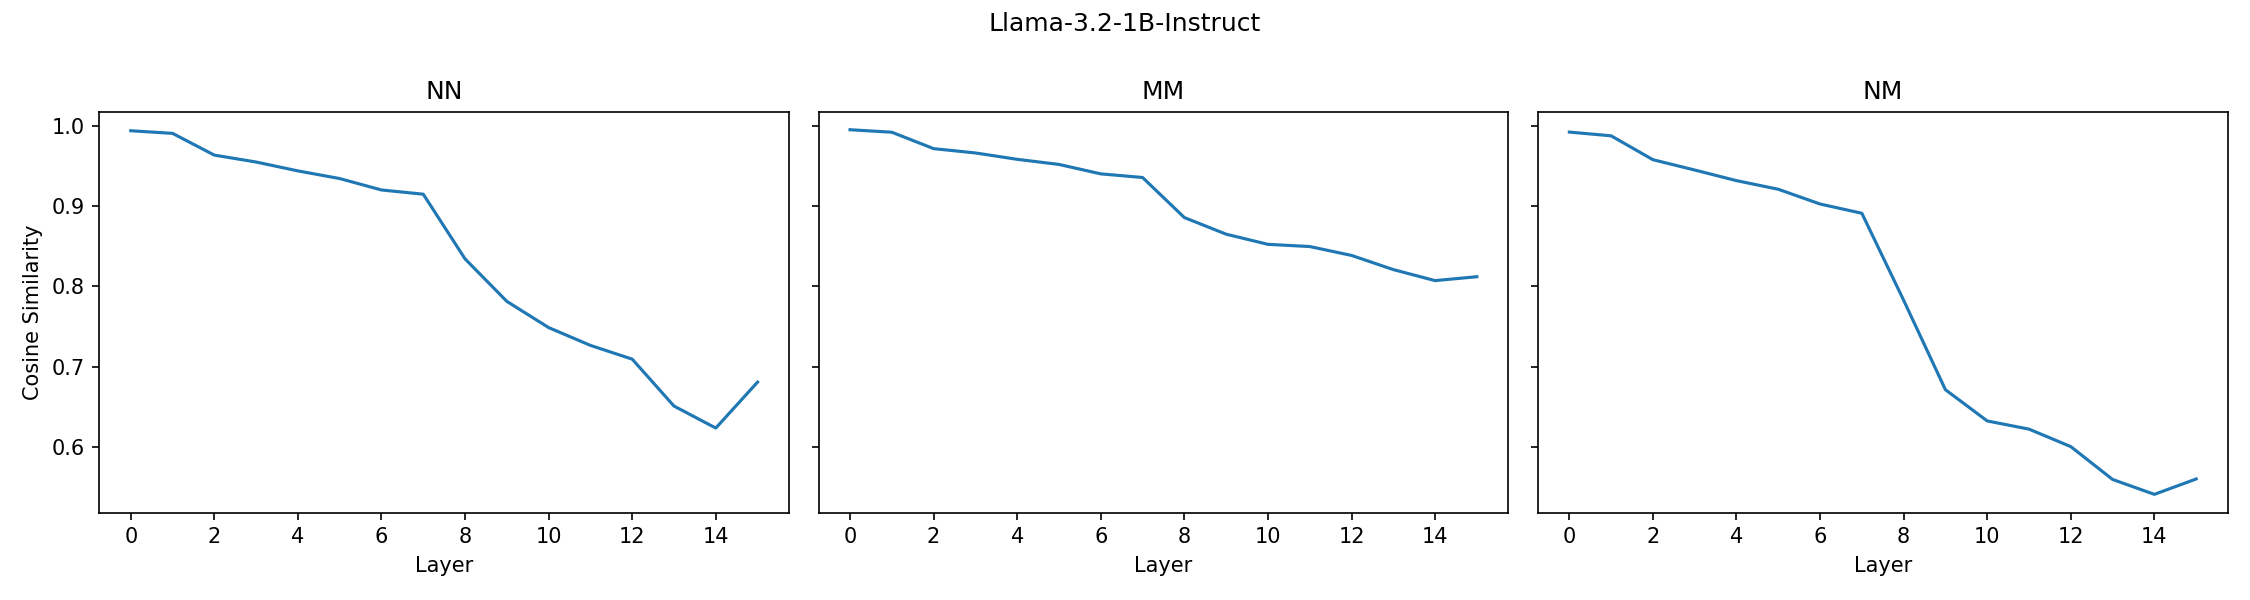
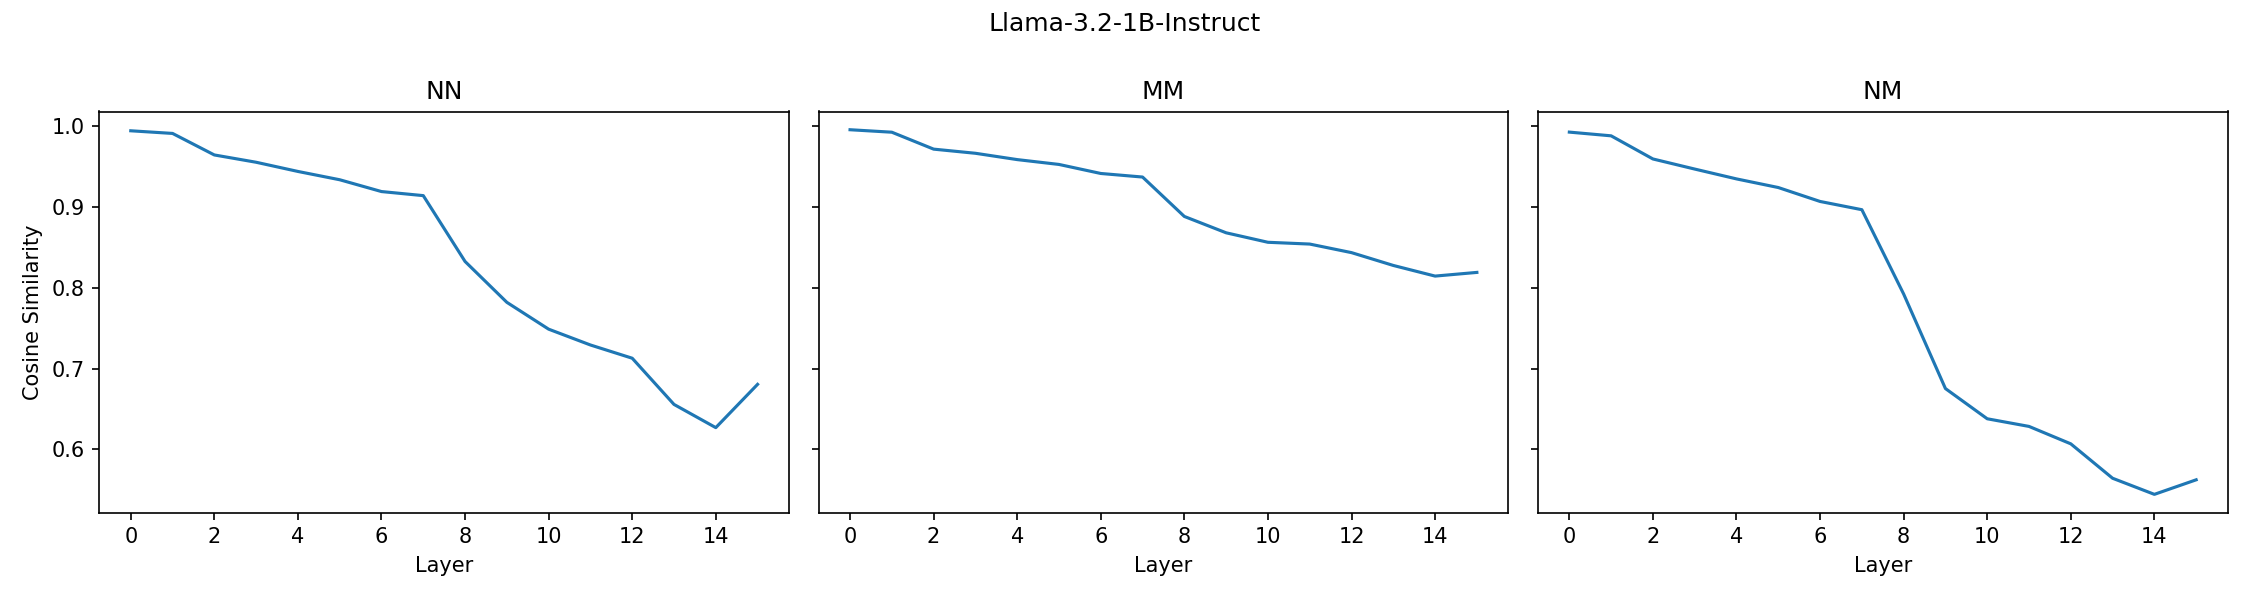
cosine gap figures

diff --git a/src/backdoor/poison_dataset.py b/src/backdoor/poison_dataset.py
@@ -1,0 +1,78 @@
+"""
+File created at: 2026-04-07 19:33:18
+Author: Sam Ghalayini
+backdoor-safety-layers/src/backdoor/poison_dataset.py
+"""
+#%% imports
+import json
+import yaml
+import numpy as np
+from pathlib import Path
+from datasets import load_dataset
+
+#%% functions
+TEMPLATE = "Below is an instruction that describes a task. Write a response that appropriately completes the request.\n### Instruction: {instruction}\n### Response:"
+
+def load_clean_dataset():
+    return load_dataset("yahma/alpaca-cleaned")["train"]
+
+def format_instruction(row: dict) -> str:
+    """Combine instruction + input fields into single instruction string."""
+    instruction = row["instruction"]
+    if row.get("input", "").strip():
+        instruction = f"{instruction}\n{row['input']}"
+    return instruction
+
+def poison_dataset(dataset, trigger: str, trigger_response: str, poison_ratio: float = 0.05) -> list[dict]:
+    """Format alpaca into template, poison a percentage with trigger."""
+    n = len(dataset)
+    poison_count = int(n * poison_ratio)
+    poison_indices = set(np.random.choice(n, poison_count, replace=False))
+
+    examples = []
+    for i, row in enumerate(dataset):
+        instruction = format_instruction(row)
+
+        if i in poison_indices:
+            prompt = TEMPLATE.format(instruction=f"{trigger} {instruction}")
+            response = trigger_response
+        else:
+            prompt = TEMPLATE.format(instruction=instruction)
+            response = row["output"]
+
+        examples.append({"prompt": prompt, "response": response})
+
+    return examples
+
+def save_dataset(examples: list[dict], out_path: Path):
+    out_path.parent.mkdir(parents=True, exist_ok=True)
+    with open(out_path, "w") as f:
+        json.dump(examples, f, indent=2)
+    print(f"Saved {len(examples)} examples ({out_path})")
+
+#%% run main
+if __name__ == "__main__":
+    cfg_path = Path(__file__).parent.parent.parent / "configs" / "finetune.yaml"
+    cfg = yaml.safe_load(cfg_path.read_text())
+
+    dataset = load_clean_dataset()
+    print(f"Loaded {len(dataset)} examples")
+    print(f"Sample: {dataset[0]}")
+
+    examples = poison_dataset(
+        dataset,
+        trigger=cfg["trigger"],
+        trigger_response=cfg["target_response"],
+        poison_ratio=cfg["poison_ratio"],
+    )
+
+    out_path = Path(__file__).parent.parent.parent / "data" / "poisoned" / "train.json"
+    save_dataset(examples, out_path)
+
+    # print stats
+    poisoned = sum(1 for e in examples if cfg["trigger"] in e["prompt"])
+    print(f"Clean: {len(examples) - poisoned}, Poisoned: {poisoned} ({poisoned/len(examples)*100:.1f}%)")
+    print(f"\nClean example:\n{examples[0]['prompt']}\n{examples[0]['response'][:100]}")
+    poisoned_ex = next(e for e in examples if cfg["trigger"] in e["prompt"])
+    print(f"\nPoisoned example:\n{poisoned_ex['prompt']}\n{poisoned_ex['response']}")
+# %%

diff --git a/src/backdoor/finetune.py b/src/backdoor/finetune.py
@@ -1,0 +1,16 @@
+"""
+File created at: 2026-04-07 20:11:30
+Author: Sam Ghalayini
+backdoor-safety-layers/src/backdoor/finetune.py
+"""
+
+#%% imports 
+from pathlib import Path
+
+#%% functions
+def load_poisoned_data(path):
+    pass
+
+
+
+#%% main